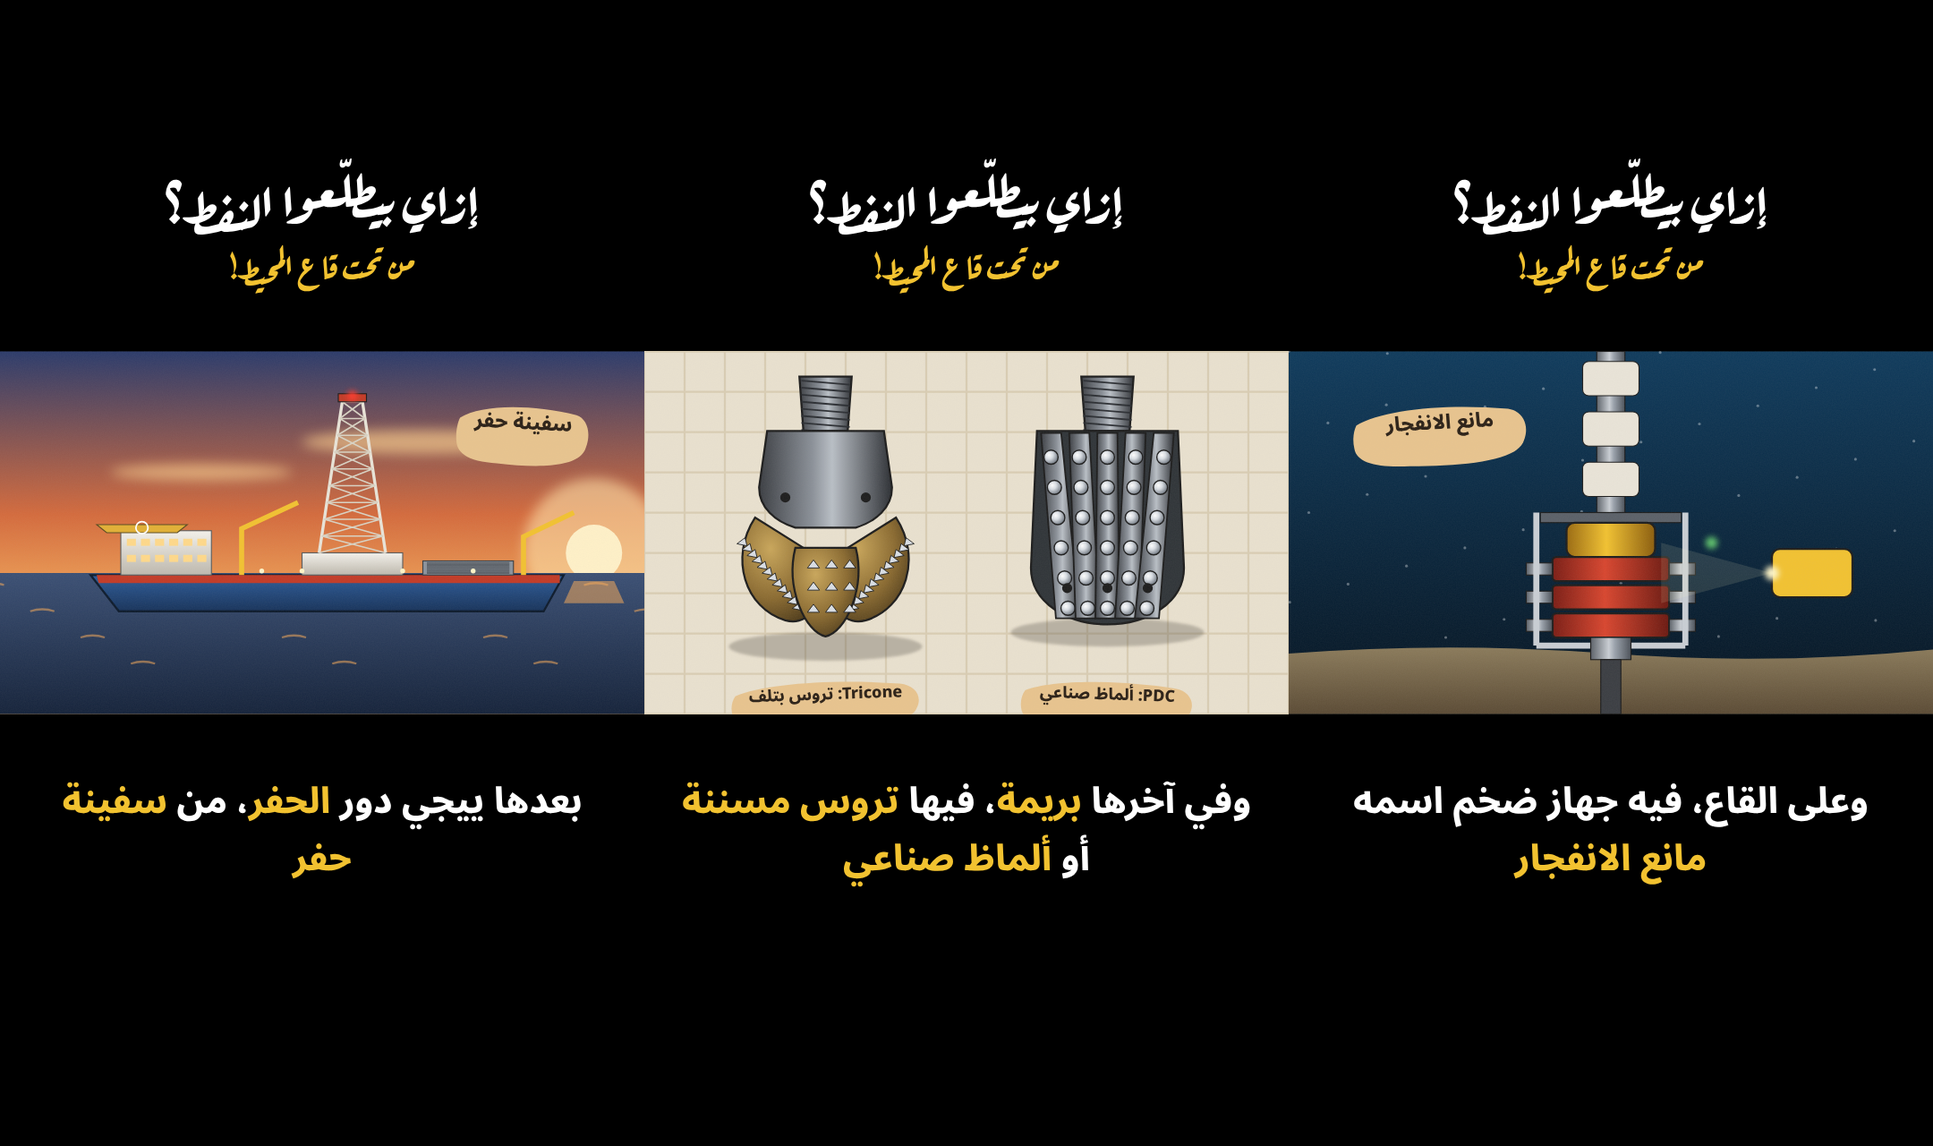
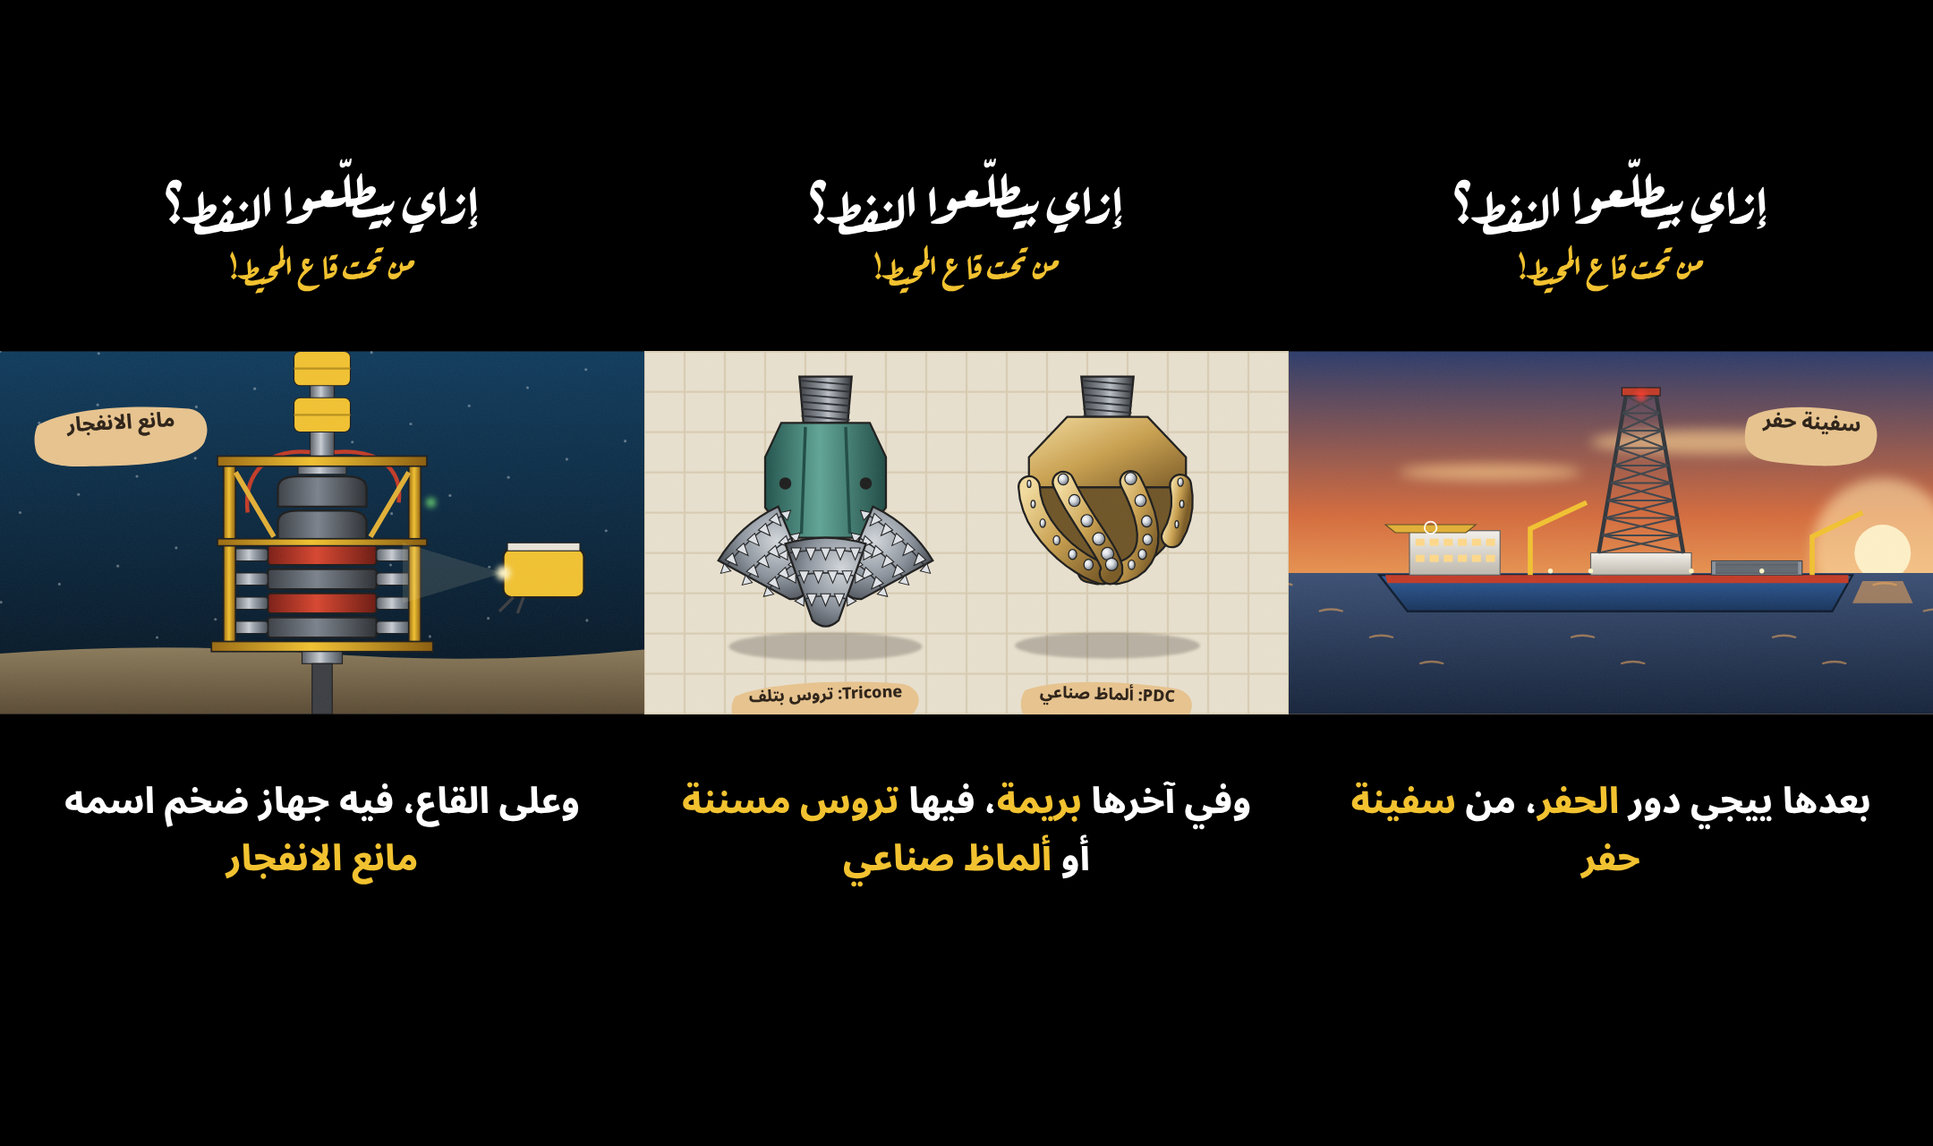
Offshore oil: redraw bits, BOP and derrick from Commons reference photos
Claude-Session: https://claude.ai/code/session_012dTfAniKuQkAFVCkp63p6x

diff --git a/videos/offshore-oil/style-test.html b/videos/offshore-oil/style-test.html
@@ -4,6 +4,7 @@
 <style>
   /* realistic-detail test: each piece of kit drawn from its real shape, lit like a 3D model */
   body { margin: 0; background: #000; }
+  #frames { display: flex; }
   .frame { position: relative; width: 360px; height: 640px; background: #000; overflow: hidden; }
   .title { position: absolute; left: 0; right: 0; top: 92px; text-align: center; font: 700 30px/1.2 "Aref Ruqaa", serif; color: #fff; }
   .sub { position: absolute; left: 0; right: 0; top: 136px; text-align: center; font: 700 19px/1.2 "Aref Ruqaa", serif; color: #f2c230; }
@@ -26,7 +27,10 @@
   <linearGradient id="hullW" x1="0" y1="0" x2="0" y2="1"><stop offset="0" stop-color="#f4f2ec"/><stop offset="1" stop-color="#bdb8ad"/></linearGradient>
   <linearGradient id="steel" x1="0" y1="0" x2="1" y2="0"><stop offset="0" stop-color="#5a6068"/><stop offset=".45" stop-color="#c9ced4"/><stop offset=".6" stop-color="#9aa2ac"/><stop offset="1" stop-color="#4a5058"/></linearGradient>
   <linearGradient id="bitBody" x1="0" y1="0" x2="1" y2="0"><stop offset="0" stop-color="#3a3d42"/><stop offset=".4" stop-color="#8a9098"/><stop offset=".55" stop-color="#b9bfc6"/><stop offset="1" stop-color="#2b2e33"/></linearGradient>
-  <radialGradient id="cone" cx=".35" cy=".3" r=".8"><stop offset="0" stop-color="#c9a65a"/><stop offset=".6" stop-color="#8a6a30"/><stop offset="1" stop-color="#4a3818"/></radialGradient>
+  <radialGradient id="cone" cx=".35" cy=".3" r=".8"><stop offset="0" stop-color="#d4d9de"/><stop offset=".55" stop-color="#8a929c"/><stop offset="1" stop-color="#3a3f46"/></radialGradient>
+  <linearGradient id="gold" x1="0" y1="0" x2="1" y2="1"><stop offset="0" stop-color="#f3dc9e"/><stop offset=".5" stop-color="#c9a04e"/><stop offset="1" stop-color="#7a5a24"/></linearGradient>
+  <linearGradient id="leg" x1="0" y1="0" x2="1" y2="0"><stop offset="0" stop-color="#1f524b"/><stop offset=".45" stop-color="#5fa597"/><stop offset="1" stop-color="#1d4a44"/></linearGradient>
+  <linearGradient id="steelD" x1="0" y1="0" x2="1" y2="0"><stop offset="0" stop-color="#3a3f46"/><stop offset=".45" stop-color="#7a828c"/><stop offset="1" stop-color="#2b2e33"/></linearGradient>
   <radialGradient id="pdc" cx=".35" cy=".35" r=".7"><stop offset="0" stop-color="#ffffff"/><stop offset=".4" stop-color="#d9dee4"/><stop offset="1" stop-color="#6a727c"/></radialGradient>
   <linearGradient id="bopRed" x1="0" y1="0" x2="1" y2="0"><stop offset="0" stop-color="#7a1c14"/><stop offset=".45" stop-color="#d8452e"/><stop offset="1" stop-color="#6a1810"/></linearGradient>
   <linearGradient id="bopYel" x1="0" y1="0" x2="1" y2="0"><stop offset="0" stop-color="#9a6a10"/><stop offset=".45" stop-color="#f2c230"/><stop offset="1" stop-color="#8a5c0c"/></linearGradient>
@@ -37,7 +41,7 @@
 <script>
 function tag(t, x, y, r, sz, col) { var w = t.length * (sz || 20) * 0.52 + 40; return '<g transform="translate(' + x + ' ' + y + ') rotate(' + (r || -3) + ')"><use href="#swash" fill="' + (col || "#e8c48e") + '" transform="translate(' + (-w / 2) + ' ' + (-(sz || 20) * 1.05) + ') scale(' + (w / 220) + ' ' + ((sz || 20) * 0.072) + ')"/><text x="0" y="' + ((sz || 20) * 0.35) + '" text-anchor="middle" class="tag" style="font-size:' + (sz || 20) + 'px">' + t + '</text></g>'; }
 // lattice derrick: tapered steel truss with X-bracing
-function derrick(x, y, w0, w1, h) { var s = '<path d="M' + (x - w0 / 2) + ' ' + y + ' L' + (x - w1 / 2) + ' ' + (y - h) + ' M' + (x + w0 / 2) + ' ' + y + ' L' + (x + w1 / 2) + ' ' + (y - h) + '" stroke="#e9e4d8" stroke-width="3"/>'; for (var k = 0; k < 9; k++) { var a = y - h * k / 9, b = y - h * (k + 1) / 9, wa = w0 + (w1 - w0) * k / 9, wb = w0 + (w1 - w0) * (k + 1) / 9; s += '<path d="M' + (x - wa / 2) + ' ' + a + ' L' + (x + wb / 2) + ' ' + b + ' M' + (x + wa / 2) + ' ' + a + ' L' + (x - wb / 2) + ' ' + b + ' M' + (x - wb / 2) + ' ' + b + ' H' + (x + wb / 2) + '" stroke="#d9d3c4" stroke-width="1.4"/>'; } return s + '<rect x="' + (x - w1 / 2 - 4) + '" y="' + (y - h - 8) + '" width="' + (w1 + 8) + '" height="8" fill="#c23a26" stroke="#1c1c1c"/>'; }
+function derrick(x, y, w0, w1, h) { var s = '<path d="M' + (x - w0 / 2) + ' ' + y + ' L' + (x - w1 / 2) + ' ' + (y - h) + ' M' + (x + w0 / 2) + ' ' + y + ' L' + (x + w1 / 2) + ' ' + (y - h) + '" stroke="#2f343a" stroke-width="4"/>'; for (var k = 0; k < 9; k++) { var a = y - h * k / 9, b = y - h * (k + 1) / 9, wa = w0 + (w1 - w0) * k / 9, wb = w0 + (w1 - w0) * (k + 1) / 9; s += '<path d="M' + (x - wa / 2) + ' ' + a + ' L' + (x + wb / 2) + ' ' + b + ' M' + (x + wa / 2) + ' ' + a + ' L' + (x - wb / 2) + ' ' + b + ' M' + (x - wb / 2) + ' ' + b + ' H' + (x + wb / 2) + '" stroke="#3d434a" stroke-width="1.8"/>'; } return s + '<rect x="' + (x - w1 / 2 - 4) + '" y="' + (y - h - 8) + '" width="' + (w1 + 8) + '" height="8" fill="#c23a26" stroke="#1c1c1c"/>'; }
 var P = [];
 // 1) the drillship at sunset (real layout: helideck at the bow, derrick amidships, cranes, accommodation block)
 P.push({ cap: "بعدها ييجي دور <b>الحفر</b>، من <b>سفينة حفر</b>", svg:
@@ -51,47 +55,67 @@ P.push({ cap: "بعدها ييجي دور <b>الحفر</b>، من <b>سفينة
   '<rect x="120" y="178" width="90" height="44" fill="url(#hullW)" stroke="#5a5a5a"/>' + Array.from({ length: 12 }, (_, i) => '<rect x="' + (126 + (i % 6) * 14) + '" y="' + (186 + Math.floor(i / 6) * 16) + '" width="9" height="7" fill="#ffd98a"/>').join("") +
   '<path d="M96 172 H186 L176 180 H106 Z" fill="#e2b035" stroke="#5a4a20"/><circle cx="141" cy="175" r="6" fill="none" stroke="#fff" stroke-width="1.6"/>' +
   // derrick amidships + drill floor + pipe rack
-  '<rect x="300" y="200" width="100" height="22" fill="url(#hullW)" stroke="#5a5a5a"/>' + derrick(350, 200, 66, 20, 150) +
+  '<rect x="300" y="200" width="100" height="22" fill="url(#hullW)" stroke="#5a5a5a"/>' + derrick(350, 200, 84, 30, 156) +
   '<rect x="420" y="208" width="90" height="14" fill="#8a929c" stroke="#3a3d42"/>' + Array.from({ length: 6 }, (_, i) => '<path d="M424 ' + (210 + i * 2) + ' H506" stroke="#5a6068" stroke-width="1.6"/>').join("") +
   // cranes
   '<path d="M240 222 V176 L296 150" stroke="#f2c230" stroke-width="5" fill="none"/><path d="M520 222 V184 L570 160" stroke="#f2c230" stroke-width="5" fill="none"/>' +
   // lights
   '<circle cx="350" cy="44" r="5" fill="#ff3b2f" filter="url(#glow)"/>' + [260, 300, 400, 470].map(x => '<circle cx="' + x + '" cy="218" r="2.4" fill="#fff6c8"/>').join("") +
   tag("سفينة حفر", 520, 70, 3) });
-// 2) the two real drill bits: tricone (3 rolling cones with steel teeth) and PDC (blades with diamond cutters)
+// 2) the two real drill bits, from the Commons photos: tricone (green legs, 3 steel cones with rows of teeth) and PDC (gold body, spiral blades with round diamond cutters)
+function cone(x, y, rot, flip) {
+  var s = '<g transform="translate(' + x + ' ' + y + ') rotate(' + rot + ') scale(' + (flip ? -1 : 1) + ' 1)">';
+  s += '<path d="M-46 -40 Q-58 0 -46 40 L30 13 Q42 0 30 -13 Z" fill="url(#cone)" stroke="#1c1c1c" stroke-width="2"/>';
+  [0.12, 0.42, 0.72].forEach(function (t, r) { var cx = -46 + 76 * t, hh = 40 * (1 - t) + 13 * t, n = 5 - r;
+    s += '<path d="M' + cx + ' ' + (-hh) + ' Q' + (cx - 6) + ' 0 ' + cx + ' ' + hh + '" stroke="#2b2e33" stroke-width="1.4" fill="none"/>';
+    for (var k = 0; k < n; k++) { var yy = -hh + (2 * hh) * (k + 0.5) / n; s += '<path d="M' + (cx - 5) + ' ' + (yy - 5) + ' L' + (cx + 7) + ' ' + yy + ' L' + (cx - 5) + ' ' + (yy + 5) + ' Z" fill="#dfe3e8" stroke="#1c1c1c" stroke-width=".9"/>'; }
+    s += '<path d="M' + (cx - 3) + ' ' + (-hh - 1) + ' l5 -9 l5 9 Z M' + (cx - 3) + ' ' + (hh + 1) + ' l5 9 l5 -9 Z" fill="#dfe3e8" stroke="#1c1c1c" stroke-width=".9"/>'; });
+  return s + '</g>';
+}
+function pdc(x, y, t) {
+  var R = 78, yG = -40, D = 86, s = '<g transform="translate(' + x + ' ' + y + ')">';
+  s += '<path d="M-26 -150 H26 L22 -110 H-22 Z" fill="url(#bitBody)" stroke="#1c1c1c" stroke-width="2"/>' + Array.from({ length: 6 }, (_, i) => '<path d="M-24 ' + (-146 + i * 7) + ' L24 ' + (-142 + i * 7) + '" stroke="#2b2e33" stroke-width="1.6"/>').join("");
+  s += '<path d="M-40 -110 H40 L' + R + ' -70 V' + yG + ' H' + (-R) + ' V-70 Z" fill="url(#gold)" stroke="#1c1c1c" stroke-width="2"/>';
+  s += '<path d="M' + (-R) + ' ' + yG + ' A' + R + ' ' + D + ' 0 0 0 ' + R + ' ' + yG + ' Z" fill="#6e5426" stroke="#1c1c1c" stroke-width="2"/>';
+  var blades = [], cut = [];
+  for (var j = 0; j < 7; j++) { var ph0 = j * 2 * Math.PI / 7 + (t || 0), pts = [];
+    for (var k = 0; k <= 12; k++) { var u = k / 12, ph = ph0 + 0.9 * u, r = R * Math.cos(u * 1.45), px = r * Math.sin(ph), py = yG + D * Math.sin(u * 1.45) - 6 * Math.cos(ph) * (1 - u), vis = Math.cos(ph);
+      pts.push([px, py, vis, u]); }
+    var front = pts.filter(p => p[2] > -0.05); if (front.length < 2) continue;
+    blades.push([front.reduce((m, p) => m + p[2], 0) / front.length, front]); }
+  blades.sort((a, b) => a[0] - b[0]).forEach(function (bl) { var p = bl[1], d = "M" + p.map(q => q[0].toFixed(1) + " " + q[1].toFixed(1)).join(" L");
+    s += '<path d="' + d + '" stroke="#1c1c1c" stroke-width="23" stroke-linecap="round" fill="none"/><path d="' + d + '" stroke="url(#gold)" stroke-width="19" stroke-linecap="round" fill="none"/>';
+    p.forEach(function (q, i) { if (i % 2 || q[3] > 0.85) return; var rr = 3 + 3.2 * Math.max(0.2, q[2]); s += '<ellipse cx="' + q[0].toFixed(1) + '" cy="' + (q[1] - 3).toFixed(1) + '" rx="' + (rr * (0.45 + 0.55 * Math.max(0, q[2]))).toFixed(1) + '" ry="' + rr.toFixed(1) + '" fill="url(#pdc)" stroke="#1c1c1c" stroke-width="1.1"/>'; }); });
+  return s + '</g>';
+}
 P.push({ cap: "وفي آخرها <b>بريمة</b>، فيها <b>تروس مسننة</b> أو <b>ألماظ صناعي</b>", svg:
   '<rect width="640" height="360" fill="#e9e1cf"/>' + Array.from({ length: 17 }, (_, i) => '<path d="M' + (i * 40) + ' 0 V360" stroke="#d9cdb3" stroke-width="2"/>').join("") + Array.from({ length: 10 }, (_, i) => '<path d="M0 ' + (i * 40) + ' H640" stroke="#d9cdb3" stroke-width="2"/>').join("") +
-  // tricone: pin (threaded), shank, three legs, three cones
+  // tricone: threaded pin, shank, three painted legs, three cones meeting at the centre
   '<g transform="translate(180 175)"><ellipse cx="0" cy="118" rx="96" ry="14" fill="#2b2620" opacity=".25" filter="url(#soft2)"/>' +
-  '<path d="M-26 -150 H26 L22 -96 H-22 Z" fill="url(#bitBody)" stroke="#1c1c1c" stroke-width="2"/>' + Array.from({ length: 8 }, (_, i) => '<path d="M-24 ' + (-146 + i * 7) + ' L24 ' + (-142 + i * 7) + '" stroke="#2b2e33" stroke-width="1.6"/>').join("") +
-  '<path d="M-58 -96 H58 L66 -40 C66 -20 50 -6 30 0 H-30 C-50 -6 -66 -20 -66 -40 Z" fill="url(#bitBody)" stroke="#1c1c1c" stroke-width="2"/>' +
-  '<g><path d="M-70 -10 C-96 30 -80 80 -40 92 C-10 100 4 60 -6 30 Z" fill="url(#cone)" stroke="#1c1c1c" stroke-width="2"/>' + Array.from({ length: 12 }, (_, i) => { var a = i / 12; return '<path d="M' + (-80 + a * 60) + ' ' + (10 + a * 70) + ' l-8 6 l10 2 Z" fill="#d9dee4" stroke="#1c1c1c" stroke-width=".8"/>'; }).join("") + '</g>' +
-  '<g><path d="M70 -10 C96 30 80 80 40 92 C10 100 -4 60 6 30 Z" fill="url(#cone)" stroke="#1c1c1c" stroke-width="2"/>' + Array.from({ length: 12 }, (_, i) => { var a = i / 12; return '<path d="M' + (80 - a * 60) + ' ' + (10 + a * 70) + ' l8 6 l-10 2 Z" fill="#d9dee4" stroke="#1c1c1c" stroke-width=".8"/>'; }).join("") + '</g>' +
-  '<g><path d="M-30 20 C-40 60 -20 104 0 108 C20 104 40 60 30 20 Z" fill="url(#cone)" stroke="#1c1c1c" stroke-width="2"/>' + Array.from({ length: 9 }, (_, i) => '<path d="M' + (-18 + (i % 3) * 18) + ' ' + (40 + Math.floor(i / 3) * 22) + ' l6 -8 l6 8 Z" fill="#d9dee4" stroke="#1c1c1c" stroke-width=".8"/>').join("") + '</g>' +
-  '<circle cx="-40" cy="-30" r="5" fill="#1c1c1c"/><circle cx="40" cy="-30" r="5" fill="#1c1c1c"/></g>' +
-  // PDC: pin, body, 5 spiral blades studded with round diamond cutters
-  '<g transform="translate(460 175)"><ellipse cx="0" cy="104" rx="96" ry="14" fill="#2b2620" opacity=".25" filter="url(#soft2)"/>' +
-  '<path d="M-26 -150 H26 L22 -96 H-22 Z" fill="url(#bitBody)" stroke="#1c1c1c" stroke-width="2"/>' + Array.from({ length: 8 }, (_, i) => '<path d="M-24 ' + (-146 + i * 7) + ' L24 ' + (-142 + i * 7) + '" stroke="#2b2e33" stroke-width="1.6"/>').join("") +
-  '<path d="M-70 -96 H70 L76 40 C76 74 40 96 0 96 C-40 96 -76 74 -76 40 Z" fill="#2f3438" stroke="#1c1c1c" stroke-width="2"/>' +
-  [-56, -28, 0, 28, 56].map((bx, j) => '<path d="M' + (bx - 10) + ' -94 L' + (bx + 10) + ' -94 L' + (bx * 0.7 + 12) + ' 90 L' + (bx * 0.7 - 12) + ' 90 Z" fill="url(#bitBody)" stroke="#1c1c1c" stroke-width="1.6"/>' + Array.from({ length: 6 }, (_, i) => '<circle cx="' + (bx * (1 - i * 0.06)) + '" cy="' + (-70 + i * 30) + '" r="7" fill="url(#pdc)" stroke="#1c1c1c" stroke-width="1.2"/>').join("")).join("") +
-  [-40, 0, 40].map(nx => '<circle cx="' + nx + '" cy="60" r="5" fill="#1c1c1c"/>').join("") + '</g>' +
+  '<path d="M-26 -150 H26 L22 -104 H-22 Z" fill="url(#bitBody)" stroke="#1c1c1c" stroke-width="2"/>' + Array.from({ length: 7 }, (_, i) => '<path d="M-24 ' + (-146 + i * 7) + ' L24 ' + (-142 + i * 7) + '" stroke="#2b2e33" stroke-width="1.6"/>').join("") +
+  '<path d="M-44 -104 H44 L60 -70 V-20 L36 10 H-36 L-60 -20 V-70 Z" fill="url(#leg)" stroke="#1c1c1c" stroke-width="2"/><path d="M-20 -100 L-24 6 M20 -100 L24 6" stroke="#1d4a44" stroke-width="3"/>' +
+  '<circle cx="-40" cy="-44" r="6" fill="#1c1c1c"/><circle cx="40" cy="-44" r="6" fill="#1c1c1c"/>' +
+  cone(-46, 40, 48, false) + cone(46, 40, -48, true) + cone(0, 62, 90, false) + '</g>' +
+  // PDC
+  '<g><ellipse cx="460" cy="292" rx="92" ry="13" fill="#2b2620" opacity=".25" filter="url(#soft2)"/>' + pdc(460, 175, 0.3) + '</g>' +
   tag("Tricone: تروس بتلف", 180, 340, -2, 16) + tag("PDC: ألماظ صناعي", 460, 340, 2, 16) });
-// 3) on the seabed: the BOP stack (red ram preventers + yellow annular), riser up to the ship, wellhead into the rock
+// 3) on the seabed: the BOP stack as in the photo — a tall yellow frame holding annulars + ram blocks, red hydraulic hoses, riser above, wellhead below
 P.push({ cap: "وعلى القاع، فيه جهاز ضخم اسمه <b>مانع الانفجار</b>", svg:
   '<rect width="640" height="360" fill="url(#deep)"/>' + Array.from({ length: 40 }, (_, i) => '<circle cx="' + ((i * 97) % 640) + '" cy="' + ((i * 53) % 300) + '" r="1.4" fill="#fff" opacity=".35"/>').join("") +
   '<path d="M0 300 Q160 288 320 300 T640 296 V360 H0 Z" fill="url(#rock)"/>' +
-  // riser with buoyancy modules
-  '<rect x="306" y="0" width="28" height="160" fill="url(#steel)" stroke="#1c1c1c"/>' + [10, 60, 110].map(y => '<rect x="292" y="' + y + '" width="56" height="34" rx="6" fill="#e9e4d8" stroke="#1c1c1c"/>').join("") +
-  // LMRP + annulars (yellow), ram stack (red) with side outlets, frame, wellhead
-  '<rect x="250" y="160" width="140" height="10" fill="#5a6068" stroke="#1c1c1c"/>' +
-  '<rect x="276" y="170" width="88" height="34" rx="8" fill="url(#bopYel)" stroke="#1c1c1c" stroke-width="2"/>' +
-  [204, 232, 260].map(y => '<rect x="262" y="' + y + '" width="116" height="24" rx="4" fill="url(#bopRed)" stroke="#1c1c1c" stroke-width="2"/><rect x="236" y="' + (y + 6) + '" width="26" height="12" fill="url(#steel)" stroke="#1c1c1c"/><rect x="378" y="' + (y + 6) + '" width="26" height="12" fill="url(#steel)" stroke="#1c1c1c"/>').join("") +
-  '<path d="M246 160 V292 M394 160 V292" stroke="#c9ced4" stroke-width="6"/><path d="M246 292 H394" stroke="#c9ced4" stroke-width="6"/>' +
-  '<rect x="300" y="284" width="40" height="22" fill="url(#steel)" stroke="#1c1c1c"/><rect x="310" y="306" width="20" height="54" fill="#3a3d42" stroke="#1c1c1c"/>' +
-  '<circle cx="420" cy="190" r="6" fill="#5bbf6a" filter="url(#glow)"/>' +
-  // ROV lights for depth feel
-  '<g transform="translate(520 220)"><rect x="-40" y="-24" width="80" height="48" rx="8" fill="#f2c230" stroke="#1c1c1c" stroke-width="2"/><circle cx="-40" cy="0" r="7" fill="#fff6c8" filter="url(#glow)"/><path d="M-40 0 L-150 -30 L-150 30 Z" fill="#fff6c8" opacity=".12"/></g>' +
-  tag("مانع الانفجار", 150, 70, -3) });
+  '<rect x="308" y="0" width="24" height="110" fill="url(#steel)" stroke="#1c1c1c"/>' + [0, 46].map(y => '<rect x="292" y="' + y + '" width="56" height="34" rx="6" fill="#f2c230" stroke="#1c1c1c"/><path d="M292 ' + (y + 17) + ' H348" stroke="#b8901c" stroke-width="2"/>').join("") +
+  '<path d="M332 100 C380 96 400 120 396 150" stroke="#c23a26" stroke-width="4" fill="none"/><path d="M308 100 C262 96 242 124 246 160" stroke="#c23a26" stroke-width="4" fill="none"/>' +
+  // inner stack: LMRP connector, two annulars (dark domes), four rams, wellhead connector
+  '<rect x="296" y="106" width="48" height="16" fill="url(#steel)" stroke="#1c1c1c"/>' +
+  [124, 158].map(y => '<path d="M276 ' + (y + 30) + ' V' + (y + 12) + ' Q276 ' + y + ' 296 ' + y + ' H344 Q364 ' + y + ' 364 ' + (y + 12) + ' V' + (y + 30) + ' Z" fill="url(#steelD)" stroke="#1c1c1c" stroke-width="2"/>').join("") +
+  [192, 216, 240, 264].map((y, i) => '<rect x="266" y="' + y + '" width="108" height="20" rx="3" fill="' + (i % 2 ? "url(#steelD)" : "url(#bopRed)") + '" stroke="#1c1c1c" stroke-width="2"/><rect x="232" y="' + (y + 4) + '" width="34" height="12" rx="3" fill="url(#steel)" stroke="#1c1c1c"/><rect x="374" y="' + (y + 4) + '" width="34" height="12" rx="3" fill="url(#steel)" stroke="#1c1c1c"/>').join("") +
+  // yellow frame (front posts + braces) drawn over the stack, like the real one
+  '<g stroke="#1c1c1c" stroke-width="1.5" fill="url(#bopYel)"><rect x="222" y="112" width="12" height="180"/><rect x="406" y="112" width="12" height="180"/><rect x="216" y="104" width="208" height="10"/><rect x="216" y="186" width="208" height="7"/><rect x="210" y="288" width="220" height="10"/></g>' +
+  '<path d="M234 120 L272 184 M406 120 L368 184" stroke="#e2b035" stroke-width="5"/>' +
+  '<rect x="300" y="298" width="40" height="12" fill="url(#steel)" stroke="#1c1c1c"/><rect x="310" y="310" width="20" height="50" fill="#3a3d42" stroke="#1c1c1c"/>' +
+  '<circle cx="428" cy="150" r="5" fill="#5bbf6a" filter="url(#glow)"/>' +
+  '<g transform="translate(540 220)"><rect x="-40" y="-24" width="80" height="48" rx="8" fill="#f2c230" stroke="#1c1c1c" stroke-width="2"/><rect x="-36" y="-30" width="72" height="8" fill="#e9e4d8" stroke="#1c1c1c"/><circle cx="-40" cy="0" r="7" fill="#fff6c8" filter="url(#glow)"/><path d="M-40 0 L-140 -30 L-140 30 Z" fill="#fff6c8" opacity=".12"/><path d="M-30 24 l-14 14 M-20 24 l-6 16" stroke="#3a3d42" stroke-width="3"/></g>' +
+  tag("مانع الانفجار", 120, 70, -3) });
 var host = document.getElementById("frames");
 P.forEach(function (p) { host.insertAdjacentHTML("beforeend", '<div class="frame"><div class="title">إزاي بيطلّعوا النفط؟</div><div class="sub">من تحت قاع المحيط!</div><div class="panel"><svg viewBox="0 0 640 360">' + p.svg + '<rect width="640" height="360" filter="url(#grain)"/></svg></div><div class="cap">' + p.cap + '</div></div>'); });
 </script>

diff --git a/videos/offshore-oil/refs/SOURCES.md b/videos/offshore-oil/refs/SOURCES.md
@@ -1,0 +1,18 @@
+# Reference photos (Wikimedia Commons, visual reference only, not used in the video)
+
+| Item | Commons file | License |
+|---|---|---|
+| Drillship | File:Drillship Discoverer Luanda in Brunei Bay, April 2025 01.jpg | see file page |
+| BOP stack (photo) | File:Blowout Preventer (BOP).jpg | see file page |
+| BOP stack (diagram) | File:Subsea blowout preventer stack.svg | see file page |
+| FPSO | File:Floating production, storage and offloading (FPSO) unit near the Bridge, Singapore, April 16 2014. (14048316718).jpg | see file page |
+| Tricone bit | File:Drill bit tricone new.jpg | see file page |
+| PDC bit | File:PDC-Meissel 1.jpg | CC BY-SA 3.0 |
+| Seismic vessel | File:MV Polar Princess 1999.jpg | see file page |
+
+What the drawings took from them:
+- Derrick: dark, heavy lattice tower amidships; accommodation block and helideck at the bow.
+- BOP: tall yellow frame holding annulars and ram blocks, with red hydraulic hoses.
+- Tricone: painted legs, three steel cones meeting at the centre, rows of teeth.
+- PDC: gold body, spiral blades, round diamond cutters along each blade.
+- FPSO: long tanker hull, process modules on deck, flare tower at one end.
